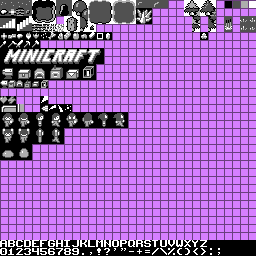
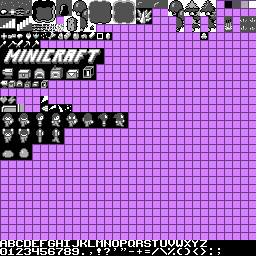
Add maple and birch trees!

Changed region(s): [[0.6562, 0.0, 0.7188, 0.125]]

diff --git a/src/uk/fergcb/minicraft/level/tile/MapleTreeTile.java b/src/uk/fergcb/minicraft/level/tile/MapleTreeTile.java
@@ -18,25 +18,17 @@ import com.mojang.ld22.level.tile.Tile;
 import uk.fergcb.minicraft.item.PlankItem;
 import uk.fergcb.minicraft.item.WoodVariety;
 
-public class SpruceTreeTile extends Tile {
-
-	private String ground;
-
-	public SpruceTreeTile(int id, String ground) {
+public class MapleTreeTile extends Tile {
+	public MapleTreeTile(int id) {
 		super(id);
-		connectsToGrass = ground.equals("grass");
-		connectsToSnow = ground.equals("snow");
-		this.ground = ground;
+		connectsToGrass = true;
 	}
 
 	public void render(Screen screen, Level level, int x, int y) {
-		int ground = this.ground.equals("snow") ? level.snowColor : level.getGrassColor(x, y);
-
-		int leavesLight = this.ground.equals("snow") ? 455 : 42;
-		int leaves = 21;
-		int border = 10;
-		int barkLight = 520;
-		int barkDark = 410;
+		int gc = level.getGrassColor(x, y);
+		int col = Color.get(100, 300, 411, gc);
+		int barkCol1 = Color.get(100, 300, 420, gc);
+		int barkCol2 = Color.get(100, 300, 310, gc);
 
 		boolean u = level.getTile(x, y - 1) == this;
 		boolean l = level.getTile(x - 1, y) == this;
@@ -47,27 +39,25 @@ public class SpruceTreeTile extends Tile {
 		boolean dl = level.getTile(x - 1, y + 1) == this;
 		boolean dr = level.getTile(x + 1, y + 1) == this;
 
-		int snowOffset = this.ground.equals("snow") ? -2 : 0;
-
 		if (u && ul && l) {
-			screen.render(x * 16, y * 16, 26 + 32 + snowOffset, Color.get(border, leaves, leavesLight, barkDark), 0);
+			screen.render(x * 16, y * 16, 10 + 32, col, 0);
 		} else {
-			screen.render(x * 16, y * 16, 25 + snowOffset, Color.get(border, leaves, leavesLight, ground), 0);
+			screen.render(x * 16, y * 16, 9, col, 0);
 		}
 		if (u && ur && r) {
-			screen.render(x * 16 + 8, y * 16, 26 + 2 * 32 + snowOffset, Color.get(border, leaves, barkDark, ground), 0);
+			screen.render(x * 16 + 8, y * 16, 10 + 2 * 32, barkCol2, 0);
 		} else {
-			screen.render(x * 16 + 8, y * 16, 26 + snowOffset, Color.get(border, leaves, leavesLight, ground), 0);
+			screen.render(x * 16 + 8, y * 16, 10, col, 0);
 		}
 		if (d && dl && l) {
-			screen.render(x * 16, y * 16 + 8, 26 + 2 * 32 + snowOffset, Color.get(border, leaves, barkDark, ground), 0);
+			screen.render(x * 16, y * 16 + 8, 10 + 2 * 32, barkCol2, 0);
 		} else {
-			screen.render(x * 16, y * 16 + 8, 25 + 32 + snowOffset, Color.get(border, leaves, barkLight, ground), 0);
+			screen.render(x * 16, y * 16 + 8, 9 + 32, barkCol1, 0);
 		}
 		if (d && dr && r) {
-			screen.render(x * 16 + 8, y * 16 + 8, 26 + 32 + snowOffset, Color.get(border, leaves, leavesLight, barkDark), 0);
+			screen.render(x * 16 + 8, y * 16 + 8, 10 + 32, col, 0);
 		} else {
-			screen.render(x * 16 + 8, y * 16 + 8, 26 + 3 * 32 + snowOffset, Color.get(border, leaves, barkDark, ground), 0);
+			screen.render(x * 16 + 8, y * 16 + 8, 10 + 3 * 32, barkCol2, 0);
 		}
 	}
 
@@ -98,19 +88,25 @@ public class SpruceTreeTile extends Tile {
 	}
 
 	private void hurt(Level level, int x, int y, int dmg) {
+		{
+			int count = random.nextInt(10) == 0 ? 1 : 0;
+			for (int i = 0; i < count; i++) {
+				level.add(new ItemEntity(new ResourceItem(Resource.apple), x * 16 + random.nextInt(10) + 3, y * 16 + random.nextInt(10) + 3));
+			}
+		}
 		int damage = level.getData(x, y) + dmg;
 		level.add(new SmashParticle(x * 16 + 8, y * 16 + 8));
 		level.add(new TextParticle("" + dmg, x * 16 + 8, y * 16 + 8, Color.get(-1, 500, 500, 500)));
 		if (damage >= 20) {
 			int count = random.nextInt(2) + 1;
 			for (int i = 0; i < count; i++) {
-				level.add(new ItemEntity(new PlankItem(WoodVariety.SPRUCE), x * 16 + random.nextInt(10) + 3, y * 16 + random.nextInt(10) + 3));
+				level.add(new ItemEntity(new PlankItem(WoodVariety.MAPLE), x * 16 + random.nextInt(10) + 3, y * 16 + random.nextInt(10) + 3));
 			}
 			count = random.nextInt(random.nextInt(4) + 1);
 			for (int i = 0; i < count; i++) {
-				level.add(new ItemEntity(new ResourceItem(Resource.pineCone), x * 16 + random.nextInt(10) + 3, y * 16 + random.nextInt(10) + 3));
+				level.add(new ItemEntity(new ResourceItem(Resource.acorn), x * 16 + random.nextInt(10) + 3, y * 16 + random.nextInt(10) + 3));
 			}
-			level.setTile(x, y, this.ground.equals("snow") ? Tile.snow : Tile.grass, 0);
+			level.setTile(x, y, Tile.grass, 0);
 		} else {
 			level.setData(x, y, damage);
 		}

diff --git a/src/uk/fergcb/minicraft/level/tile/BirchTreeTile.java b/src/uk/fergcb/minicraft/level/tile/BirchTreeTile.java
@@ -18,25 +18,17 @@ import com.mojang.ld22.level.tile.Tile;
 import uk.fergcb.minicraft.item.PlankItem;
 import uk.fergcb.minicraft.item.WoodVariety;
 
-public class SpruceTreeTile extends Tile {
-
-	private String ground;
-
-	public SpruceTreeTile(int id, String ground) {
+public class BirchTreeTile extends Tile {
+	public BirchTreeTile(int id) {
 		super(id);
-		connectsToGrass = ground.equals("grass");
-		connectsToSnow = ground.equals("snow");
-		this.ground = ground;
+		connectsToGrass = true;
 	}
 
 	public void render(Screen screen, Level level, int x, int y) {
-		int ground = this.ground.equals("snow") ? level.snowColor : level.getGrassColor(x, y);
-
-		int leavesLight = this.ground.equals("snow") ? 455 : 42;
-		int leaves = 21;
-		int border = 10;
-		int barkLight = 520;
-		int barkDark = 410;
+		int gc = level.getGrassColor(x, y);
+		int col = Color.get(10, 141, 252, gc);
+		int barkCol1 = Color.get(10, 141, 555, gc);
+		int barkCol2 = Color.get(10, 141, 333, gc);
 
 		boolean u = level.getTile(x, y - 1) == this;
 		boolean l = level.getTile(x - 1, y) == this;
@@ -47,27 +39,25 @@ public class SpruceTreeTile extends Tile {
 		boolean dl = level.getTile(x - 1, y + 1) == this;
 		boolean dr = level.getTile(x + 1, y + 1) == this;
 
-		int snowOffset = this.ground.equals("snow") ? -2 : 0;
-
 		if (u && ul && l) {
-			screen.render(x * 16, y * 16, 26 + 32 + snowOffset, Color.get(border, leaves, leavesLight, barkDark), 0);
+			screen.render(x * 16, y * 16, 22 + 32, col, 0);
 		} else {
-			screen.render(x * 16, y * 16, 25 + snowOffset, Color.get(border, leaves, leavesLight, ground), 0);
+			screen.render(x * 16, y * 16, 21, col, 0);
 		}
 		if (u && ur && r) {
-			screen.render(x * 16 + 8, y * 16, 26 + 2 * 32 + snowOffset, Color.get(border, leaves, barkDark, ground), 0);
+			screen.render(x * 16 + 8, y * 16, 22 + 2 * 32, barkCol2, 0);
 		} else {
-			screen.render(x * 16 + 8, y * 16, 26 + snowOffset, Color.get(border, leaves, leavesLight, ground), 0);
+			screen.render(x * 16 + 8, y * 16, 22, col, 0);
 		}
 		if (d && dl && l) {
-			screen.render(x * 16, y * 16 + 8, 26 + 2 * 32 + snowOffset, Color.get(border, leaves, barkDark, ground), 0);
+			screen.render(x * 16, y * 16 + 8, 22 + 2 * 32, barkCol2, 0);
 		} else {
-			screen.render(x * 16, y * 16 + 8, 25 + 32 + snowOffset, Color.get(border, leaves, barkLight, ground), 0);
+			screen.render(x * 16, y * 16 + 8, 21 + 32, barkCol1, 0);
 		}
 		if (d && dr && r) {
-			screen.render(x * 16 + 8, y * 16 + 8, 26 + 32 + snowOffset, Color.get(border, leaves, leavesLight, barkDark), 0);
+			screen.render(x * 16 + 8, y * 16 + 8, 22 + 32, col, 0);
 		} else {
-			screen.render(x * 16 + 8, y * 16 + 8, 26 + 3 * 32 + snowOffset, Color.get(border, leaves, barkDark, ground), 0);
+			screen.render(x * 16 + 8, y * 16 + 8, 22 + 3 * 32, barkCol2, 0);
 		}
 	}
 
@@ -98,19 +88,25 @@ public class SpruceTreeTile extends Tile {
 	}
 
 	private void hurt(Level level, int x, int y, int dmg) {
+		{
+			int count = random.nextInt(10) == 0 ? 1 : 0;
+			for (int i = 0; i < count; i++) {
+				level.add(new ItemEntity(new ResourceItem(Resource.apple), x * 16 + random.nextInt(10) + 3, y * 16 + random.nextInt(10) + 3));
+			}
+		}
 		int damage = level.getData(x, y) + dmg;
 		level.add(new SmashParticle(x * 16 + 8, y * 16 + 8));
 		level.add(new TextParticle("" + dmg, x * 16 + 8, y * 16 + 8, Color.get(-1, 500, 500, 500)));
 		if (damage >= 20) {
 			int count = random.nextInt(2) + 1;
 			for (int i = 0; i < count; i++) {
-				level.add(new ItemEntity(new PlankItem(WoodVariety.SPRUCE), x * 16 + random.nextInt(10) + 3, y * 16 + random.nextInt(10) + 3));
+				level.add(new ItemEntity(new PlankItem(WoodVariety.BIRCH), x * 16 + random.nextInt(10) + 3, y * 16 + random.nextInt(10) + 3));
 			}
 			count = random.nextInt(random.nextInt(4) + 1);
 			for (int i = 0; i < count; i++) {
-				level.add(new ItemEntity(new ResourceItem(Resource.pineCone), x * 16 + random.nextInt(10) + 3, y * 16 + random.nextInt(10) + 3));
+				level.add(new ItemEntity(new ResourceItem(Resource.acorn), x * 16 + random.nextInt(10) + 3, y * 16 + random.nextInt(10) + 3));
 			}
-			level.setTile(x, y, this.ground.equals("snow") ? Tile.snow : Tile.grass, 0);
+			level.setTile(x, y, Tile.grass, 0);
 		} else {
 			level.setData(x, y, damage);
 		}

diff --git a/src/com/mojang/ld22/level/tile/Tile.java b/src/com/mojang/ld22/level/tile/Tile.java
@@ -9,10 +9,7 @@ import com.mojang.ld22.gfx.Screen;
 import com.mojang.ld22.item.Item;
 import com.mojang.ld22.item.resource.Resource;
 import com.mojang.ld22.level.Level;
-import uk.fergcb.minicraft.level.tile.ColourfulFlowerTile;
-import uk.fergcb.minicraft.level.tile.LongGrassTile;
-import uk.fergcb.minicraft.level.tile.SnowTile;
-import uk.fergcb.minicraft.level.tile.SpruceTreeTile;
+import uk.fergcb.minicraft.level.tile.*;
 
 public class Tile {
 	public static int tickCount = 0;
@@ -46,7 +43,9 @@ public class Tile {
 	public static final Tile snow = new SnowTile(25);
 	public static final Tile spruce = new SpruceTreeTile(26, "grass");
 	public static final Tile snowySpruce = new SpruceTreeTile(27, "snow");
-	public static final Tile spruceSapling = new SaplingTile(28, grass, spruce);
+	public static final Tile maple = new MapleTreeTile(28);
+	public static final Tile birch = new BirchTreeTile(29);
+	public static final Tile spruceSapling = new SaplingTile(30, grass, spruce);
 
 	public static final Tile ironOre = new OreTile(19, Resource.ironOre);
 	public static final Tile goldOre = new OreTile(20, Resource.goldOre);

diff --git a/src/com/mojang/ld22/level/tile/TreeTile.java b/src/com/mojang/ld22/level/tile/TreeTile.java
@@ -14,6 +14,8 @@ import com.mojang.ld22.item.ToolItem;
 import com.mojang.ld22.item.ToolType;
 import com.mojang.ld22.item.resource.Resource;
 import com.mojang.ld22.level.Level;
+import uk.fergcb.minicraft.item.PlankItem;
+import uk.fergcb.minicraft.item.WoodVariety;
 
 public class TreeTile extends Tile {
 	public TreeTile(int id) {
@@ -97,7 +99,7 @@ public class TreeTile extends Tile {
 		if (damage >= 20) {
 			int count = random.nextInt(2) + 1;
 			for (int i = 0; i < count; i++) {
-				level.add(new ItemEntity(new ResourceItem(Resource.wood), x * 16 + random.nextInt(10) + 3, y * 16 + random.nextInt(10) + 3));
+				level.add(new ItemEntity(new PlankItem(WoodVariety.OAK), x * 16 + random.nextInt(10) + 3, y * 16 + random.nextInt(10) + 3));
 			}
 			count = random.nextInt(random.nextInt(4) + 1);
 			for (int i = 0; i < count; i++) {

diff --git a/src/uk/fergcb/minicraft/level/BiomeType.java b/src/uk/fergcb/minicraft/level/BiomeType.java
@@ -31,11 +31,15 @@ public enum BiomeType {
     }),
     FOREST(0, 400, 600, 41, 321, (double n, double c, double f, double t, double m, Random rand) -> {
         if (f < 0.2) {
-            if (rand.nextInt(100) < 70)
-                if (rand.nextInt(2) < 1)
-                    return new byte[] {Tile.tree.id, 0};
+            if (rand.nextInt(100) < 70) {
+                int r = rand.nextInt(5);
+                if (r < 1)
+                    return new byte[]{Tile.maple.id, 0};
+                else if (r < 2)
+                    return new byte[]{Tile.birch.id, 0};
                 else
-                    return new byte[] {Tile.spruce.id, 0};
+                    return new byte[]{Tile.tree.id, 0};
+            }
         }
         return new byte[] {Tile.grass.id, 0};
     }),

diff --git a/src/uk/fergcb/minicraft/item/WoodVariety.java b/src/uk/fergcb/minicraft/item/WoodVariety.java
@@ -1,0 +1,24 @@
+package uk.fergcb.minicraft.item;
+
+import com.mojang.ld22.gfx.Color;
+
+public enum WoodVariety implements Variety {
+
+    OAK(531), SPRUCE(422), MAPLE(511), BIRCH(543);
+
+    int color;
+
+    WoodVariety(int color) {
+        this.color = color;
+    }
+
+    @Override
+    public String getName() {
+        return name();
+    }
+
+    @Override
+    public int getColor() {
+        return Color.get(-1, Color.sub(color, 333), color, Color.darken(color));
+    }
+}

diff --git a/src/uk/fergcb/minicraft/item/PlankItem.java b/src/uk/fergcb/minicraft/item/PlankItem.java
@@ -1,0 +1,22 @@
+package uk.fergcb.minicraft.item;
+
+public class PlankItem extends VariedItem {
+
+    public PlankItem(Variety variety, int count) {
+        super(1 + 4 * 32, variety, 999, count);
+    }
+
+    public PlankItem(Variety variety) {
+        this(variety, 1);
+    }
+
+    public PlankItem() {
+        this(Variety.ANY, 0);
+    }
+
+    @Override
+    public String getName() {
+        return variety.getName() + " PLANK";
+    }
+
+}
